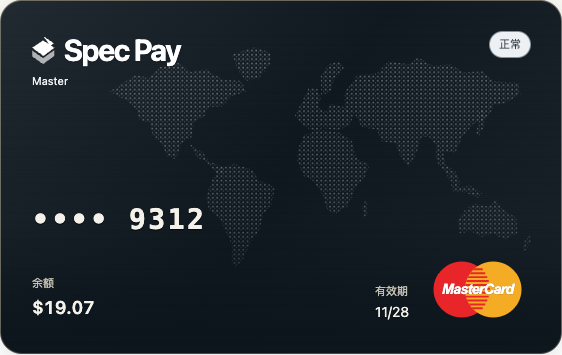
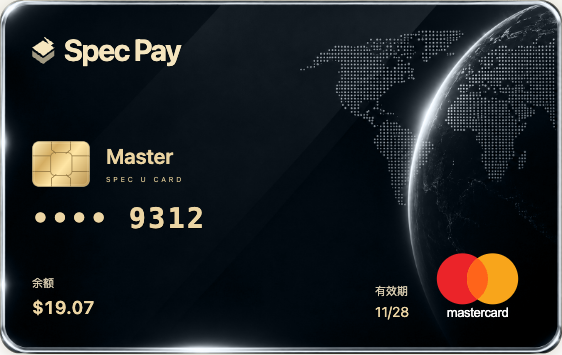
更新

diff --git a/resources/css/app.css b/resources/css/app.css
@@ -706,16 +706,17 @@ a.user-quick-action:hover .user-quick-action-circle {
     aspect-ratio: 1.586;
     margin: auto;
     border-radius: 22px;
-    background: #181b1e url('/images/cards/spec-pay-world.svg') center / 100% 100% no-repeat;
-    color: #f3f1e9;
+    background: #111312 url('/images/cards/spec-pay-gold-background.jpg') center / 100% 100%
+        no-repeat;
+    color: #ecd5a3;
     box-shadow:
-        inset 0 0 0 1px rgb(197 179 141 / 35%),
+        inset 0 0 0 1px rgb(244 218 160 / 22%),
         inset 0 1px 0 rgb(239 225 196 / 18%),
-        0 8px 20px rgb(40 46 43 / 12%);
+        0 5px 18px rgb(92 70 25 / 20%);
     padding: clamp(22px, 4.267cqw, 32px);
     display: flex;
     flex-direction: column;
-    gap: 18px;
+    gap: 12px;
 }
 .user-card-face-header {
     display: flex;
@@ -727,7 +728,7 @@ a.user-quick-action:hover .user-quick-action-circle {
     display: flex;
     align-items: center;
     gap: 9px;
-    color: #fff;
+    color: #f5e5be;
     font-size: clamp(22px, 4.4cqw, 30px);
     font-weight: 650;
     letter-spacing: -0.045em;
@@ -739,28 +740,46 @@ a.user-quick-action:hover .user-quick-action-circle {
     height: 29px;
     flex-shrink: 0;
 }
+.user-card-chip-row {
+    display: flex;
+    align-items: center;
+    gap: 16px;
+    margin-top: auto;
+}
+.user-card-chip-row > img {
+    width: clamp(42px, 9cqw, 58px);
+    height: auto;
+    flex-shrink: 0;
+}
 .user-card-name {
-    margin-top: 5px;
-    color: #f0f2f3;
-    font-size: 11px;
+    color: #ead3a0;
+    font-size: clamp(15px, 3cqw, 21px);
+    font-weight: 600;
+    line-height: 1.3;
+}
+.user-card-edition {
+    margin-top: 4px;
+    color: #cab788;
+    font-size: 7px;
+    letter-spacing: 0.38em;
 }
 .user-card-state {
     padding: 4px 9px;
     border-radius: 999px;
-    background: #30322f;
-    color: white;
+    background: #292922;
+    color: #efdfb6;
     font-size: 11px;
     line-height: 1.5;
     text-align: center;
     max-width: 45%;
 }
 .user-card-number {
-    margin-top: auto;
+    margin-top: 0;
     font-size: clamp(20px, 4cqw, 28px);
     font-weight: 600;
     letter-spacing: 0.09em;
     line-height: 1.4;
-    color: #f3f1e9;
+    color: #ecd5a3;
     text-shadow: 0 1px 1px rgb(0 0 0 / 70%);
     overflow-wrap: anywhere;
 }
@@ -771,7 +790,7 @@ a.user-quick-action:hover .user-quick-action-circle {
     align-items: end;
 }
 .user-card-label {
-    color: #c6c1b5;
+    color: #d5c9ad;
     font-size: 11px;
 }
 .user-card-expiry {

diff --git a/resources/js/pages/user/Cards.tsx b/resources/js/pages/user/Cards.tsx
@@ -749,13 +749,27 @@ export default function Cards(props: Props) {
                                                     </svg>
                                                     <span>Spec Pay</span>
                                                 </p>
+                                            </div>
+                                            {card.state !== 'Normal' && (
+                                                <p className="user-card-state">
+                                                    {t(card.state ?? 'Awaiting confirmation')}
+                                                </p>
+                                            )}
+                                        </div>
+                                        <div className="user-card-chip-row">
+                                            <img
+                                                src="/images/cards/gold-chip.svg"
+                                                alt=""
+                                                aria-hidden="true"
+                                                width="106"
+                                                height="84"
+                                            />
+                                            <div>
                                                 <p className="user-card-name">
                                                     {cardDisplayName(card.productName)}
                                                 </p>
+                                                <p className="user-card-edition">SPEC U CARD</p>
                                             </div>
-                                            <p className="user-card-state">
-                                                {t(card.state ?? 'Awaiting confirmation')}
-                                            </p>
                                         </div>
                                         <p className="user-card-number font-mono">
                                             {card.maskedPan}

diff --git a/output/card-background-generation.md b/output/card-background-generation.md
@@ -1,0 +1,13 @@
+# Card background generation
+
+Mode: built-in image_gen (precise-object-edit), not CLI.
+
+Reference: public/images/marketing/spec-pay-gold-world.png
+
+Final web asset: [spec-pay-gold-background.jpg](../public/images/cards/spec-pay-gold-background.jpg)
+
+The generated PNG was converted to JPEG at quality 90 for web delivery (323 KB). All card data, Spec Pay branding, chip and Mastercard mark remain separate UI overlays.
+
+## Final prompt
+
+Use case: precise-object-edit. Edit target: attached gold-world card image. Produce ONLY a clean blank card-face background texture for a live web payment card component. Remove ALL text, logos, symbols, chip, numbers, Mastercard circles, date and cardholder letters entirely; fill these areas seamlessly with matching dark satin charcoal. Preserve the exact luxurious metallic GOLD reflective rim and the dramatically bright GOLD curved globe horizon on the right, dotted gold world map at upper right, diagonal satin texture, bright specular highlight along upper-left rim and bottom rim. Make the map and golden arc clearly visible even at 350px width, matching the reference brightness, not faint. Crop/zoom to the rectangular card face itself: front-on flat 1.586:1 aspect landscape, rim at image perimeter with near-zero outer margin, no tabletop, no floor reflection, no perspective, no surroundings. Output only this blank black/gold card background. No text, no chip, no logos at all; live UI will overlay those. Keep left two-thirds dark and clean for readable live fields.
